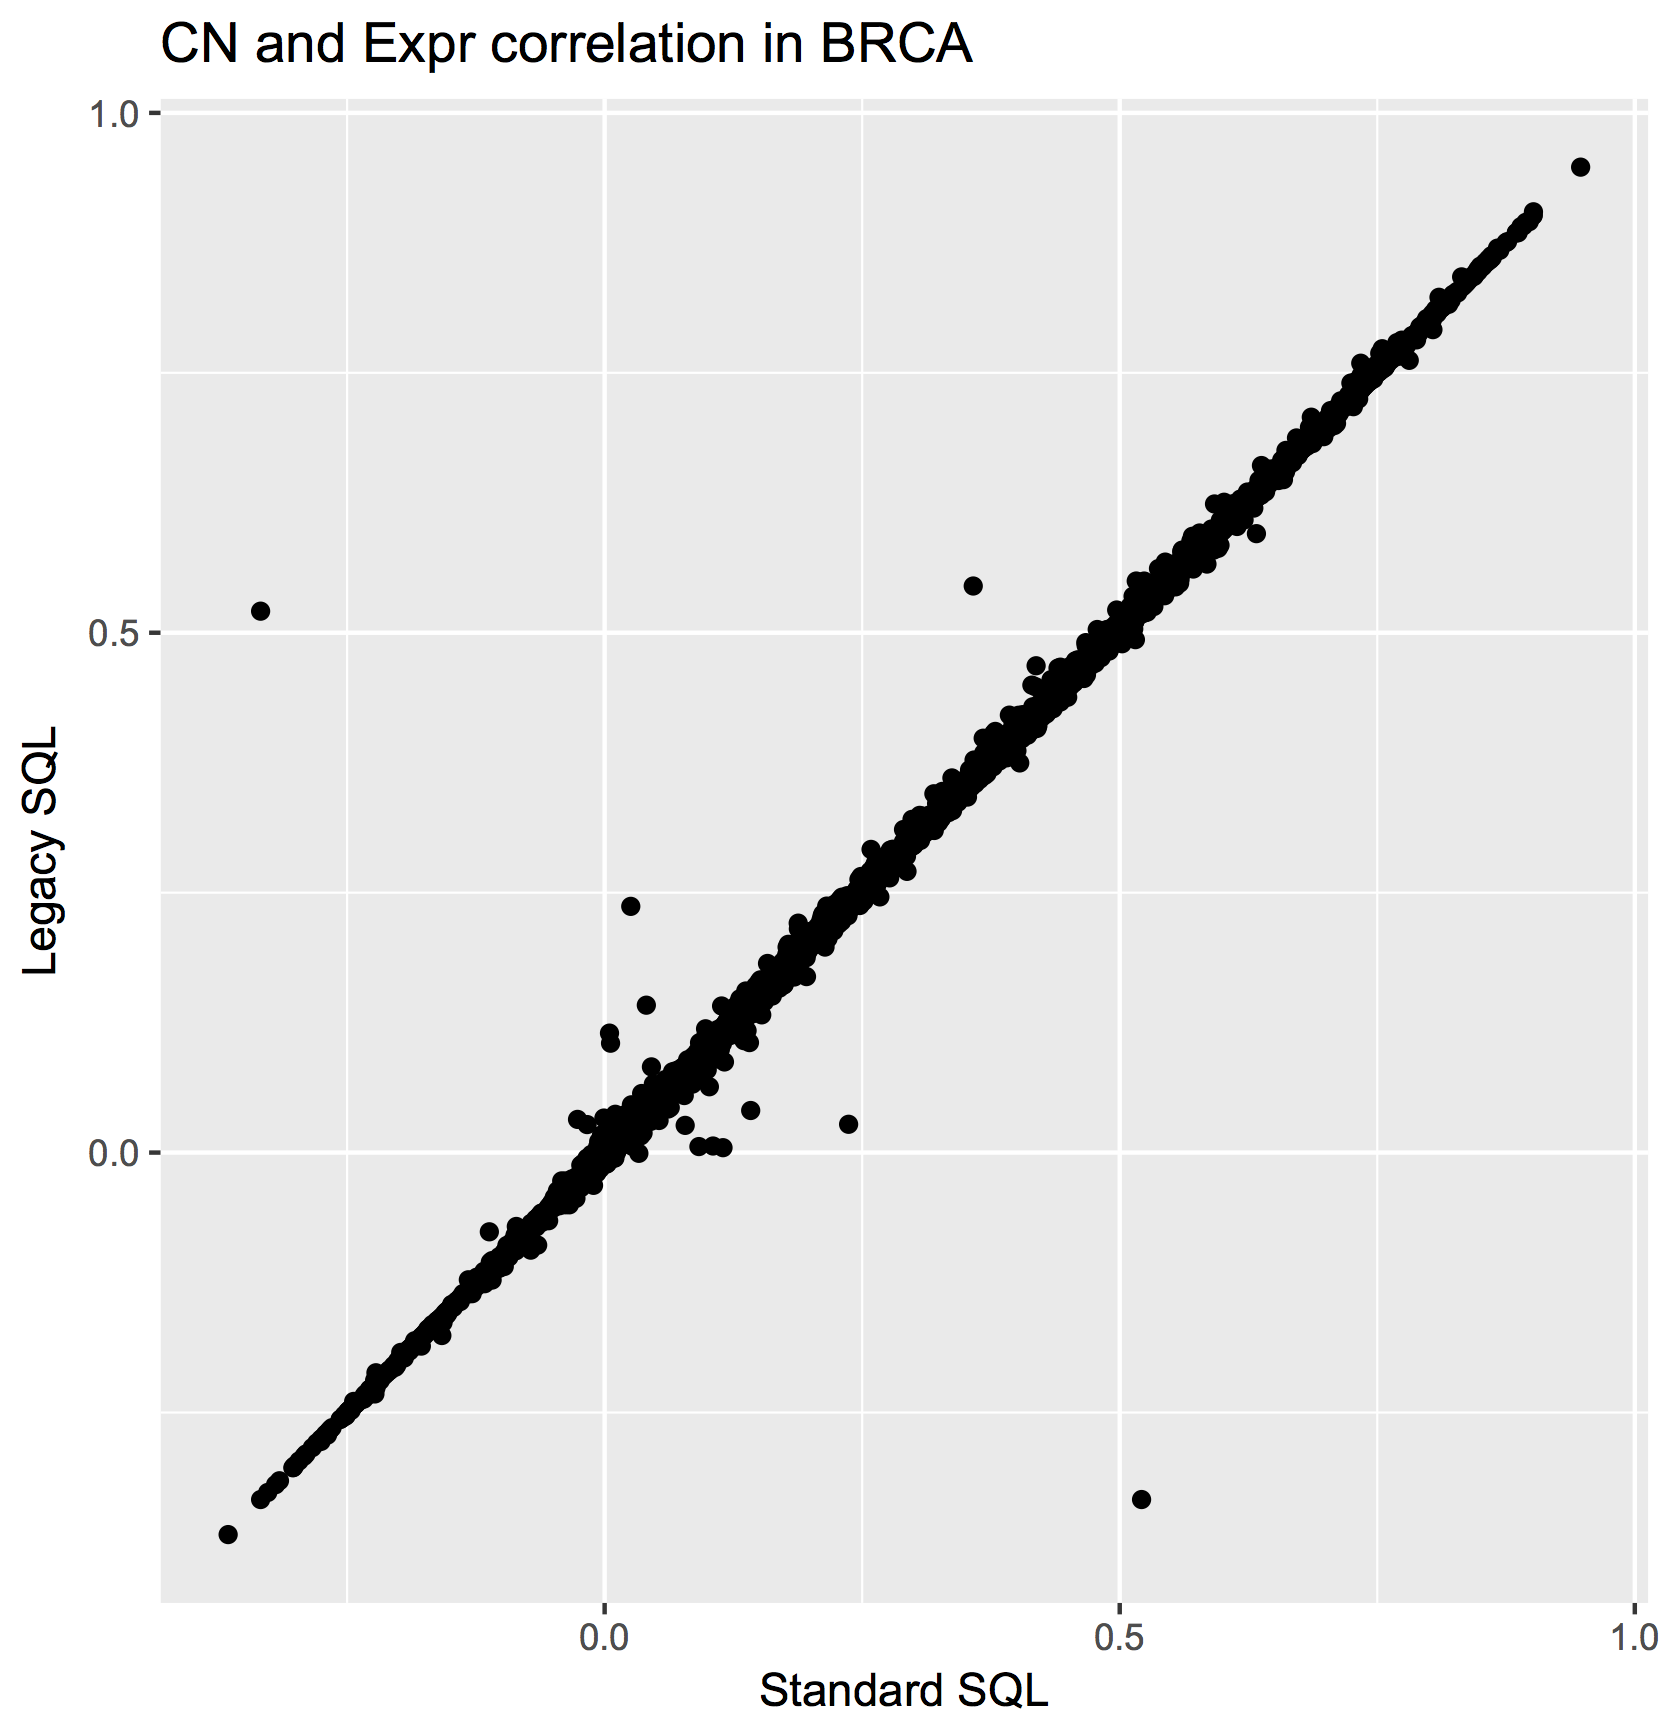
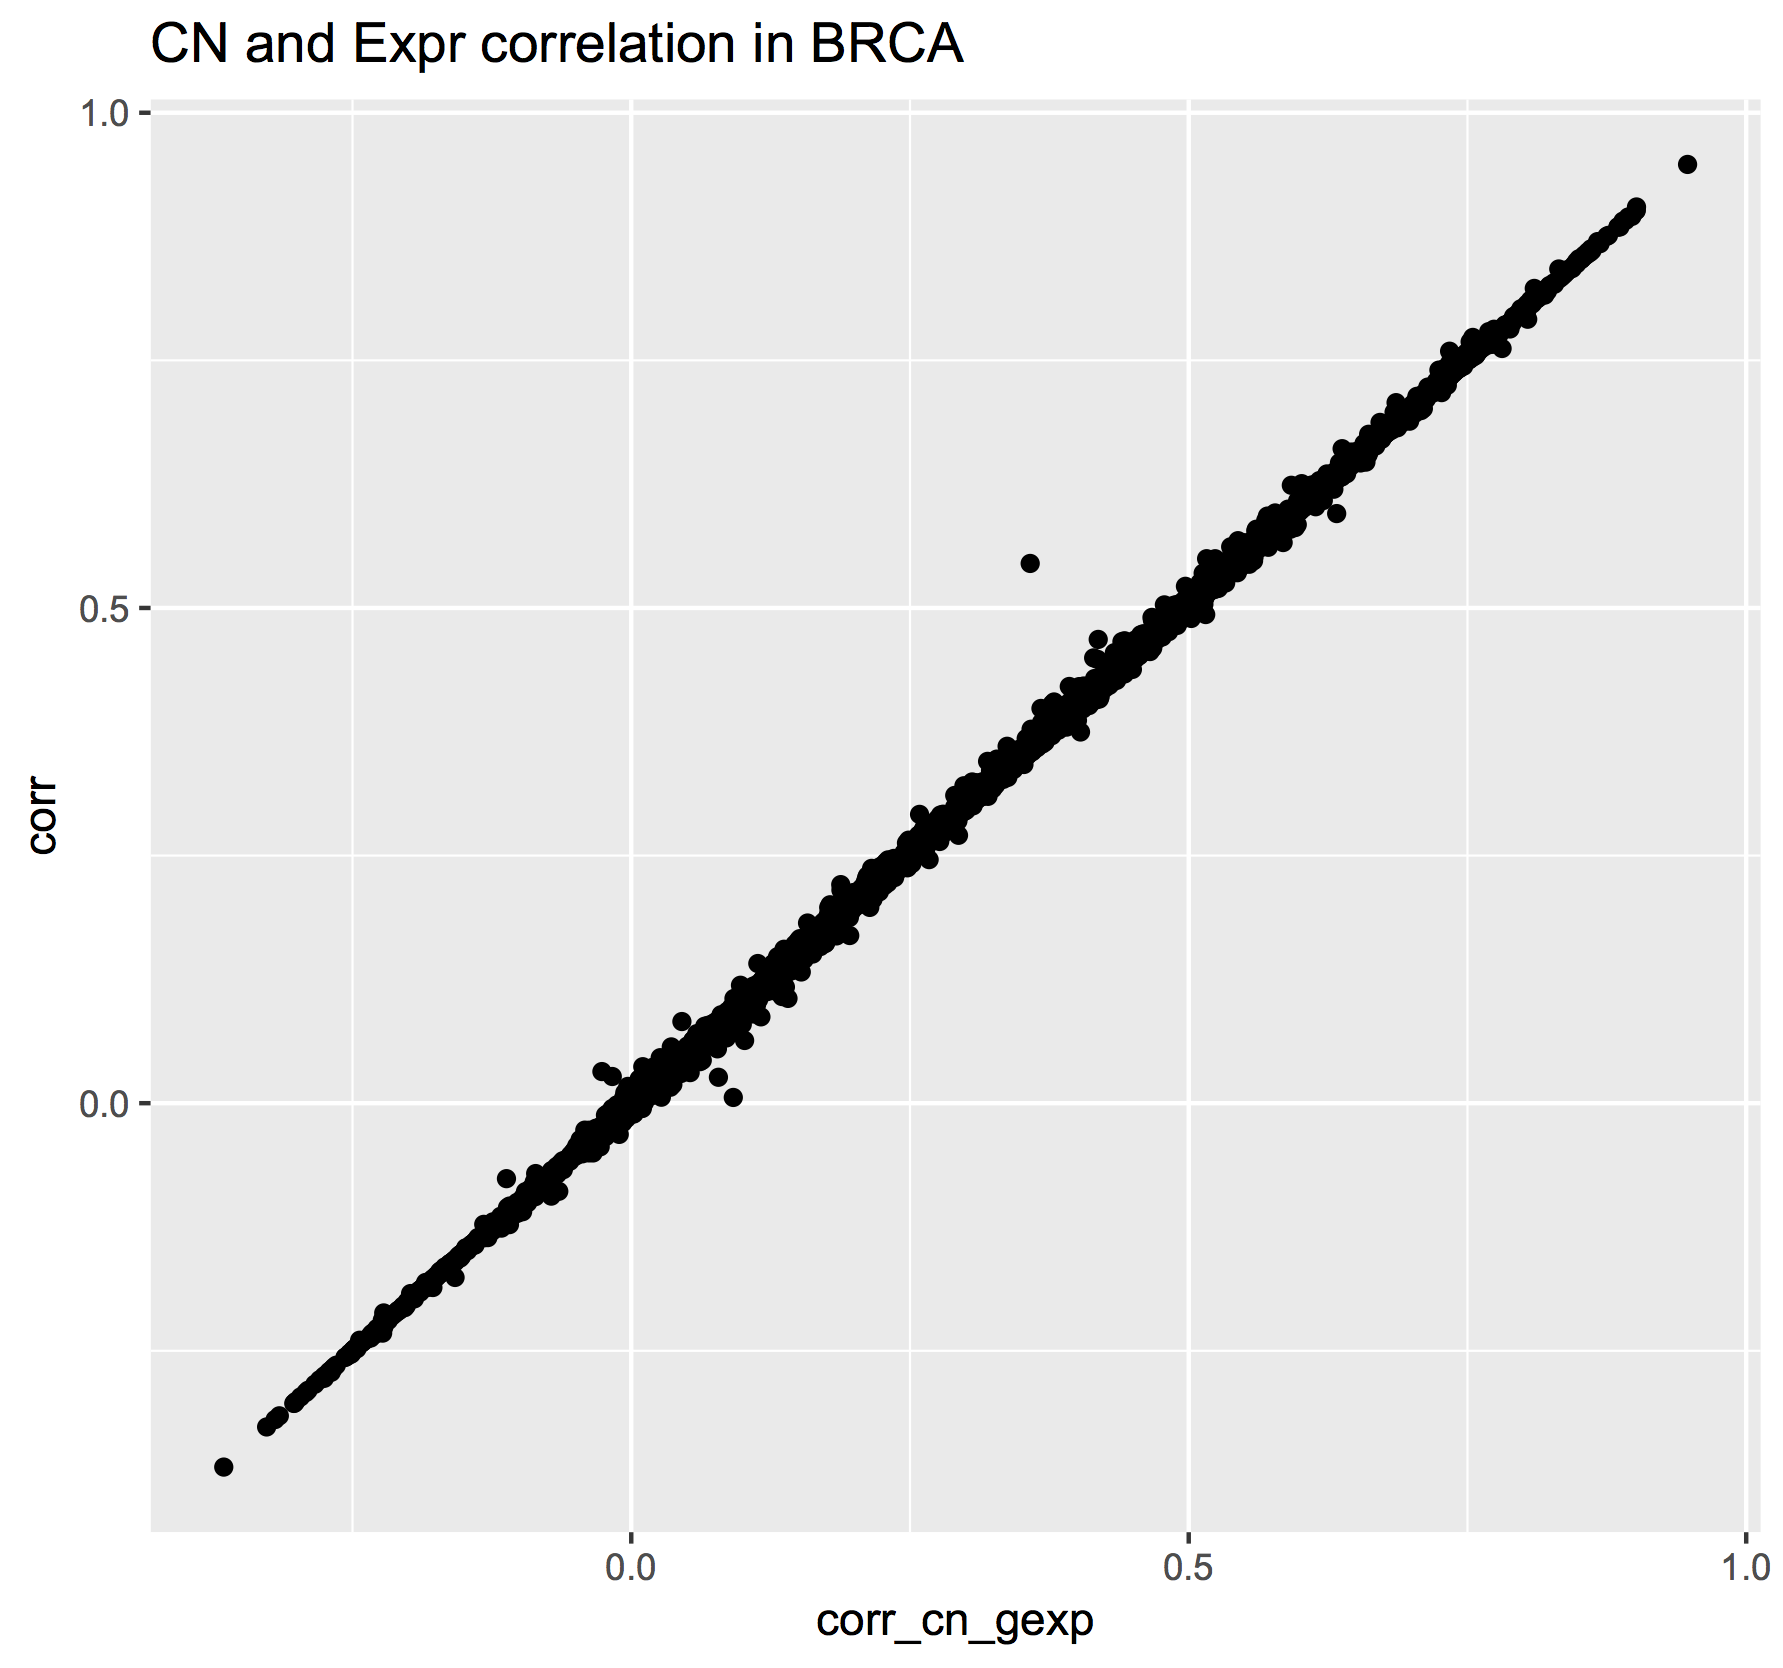
query of the month 1601

diff --git a/docs/source/sections/QueryOfTheMonthClub_dev.rst b/docs/source/sections/QueryOfTheMonthClub_dev.rst
@@ -111,7 +111,8 @@ Legacy SQL
                 [isb-cgc:genome_reference.GENCODE_v19]
               WHERE
                 feature=\"gene\"
-                AND gene_status=\"KNOWN\" ),
+                AND gene_status=\"KNOWN\"
+                AND source=\"HAVANA\"),
 
                 label, value, chr, region_start, region_end,
 
@@ -241,7 +242,8 @@ Standard SQL
           `isb-cgc.genome_reference.GENCODE_v19`
         WHERE
           feature='gene'
-          AND gene_status='KNOWN'),
+          AND gene_status='KNOWN'
+          AND source = 'HAVANA'),
 
     cnInfo AS(
       SELECT
@@ -340,22 +342,18 @@ R script
 
   res0 <- merge(legacy_res, std_res, by="gene")
 
-  dim(res0)
-  #[1] 18574     7
-
   dim(std_res)
-  #[1] 18775     4
+  #[1] 18447     4
 
   dim(legacy_res)
-  #[1] 18564     4
+  #[1] 18424     4
 
-  table(res0$n.x == res0$n.y)
-
-  #FALSE  TRUE
-  #  589 17985
+  dim(res0)
+  #[1] 18424     7
 
   qplot(data=res0, x=corr_cn_gexp, y=corr, main="CN and Expr correlation in BRCA",
         xlab="Standard SQL", ylab="Legacy SQL")
+
 
 ------------
 
@@ -365,7 +363,6 @@ R script
 
 This plot shows the correlations found using the Legacy SQL solution (y-axis) compared
 to the correlations found using the Standard SQL solution (x-axis).
-
 
 ------------------
 
